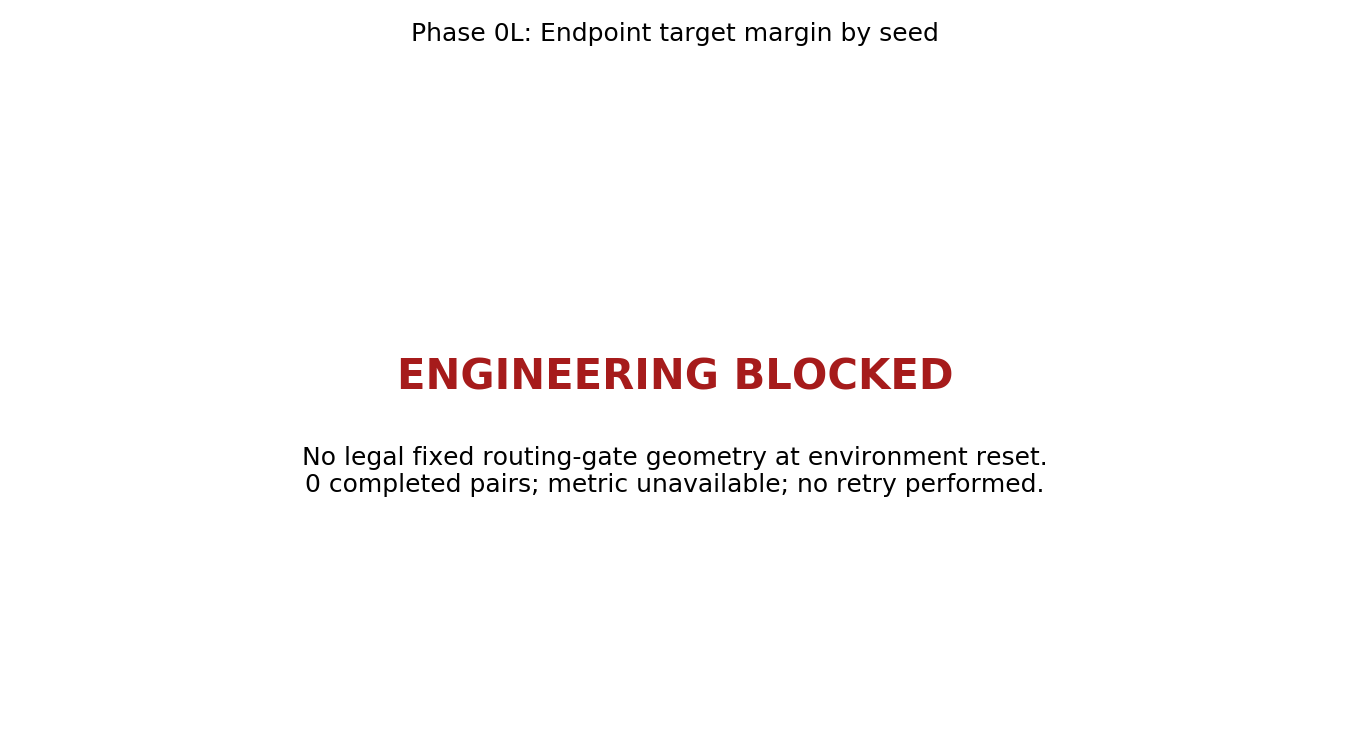
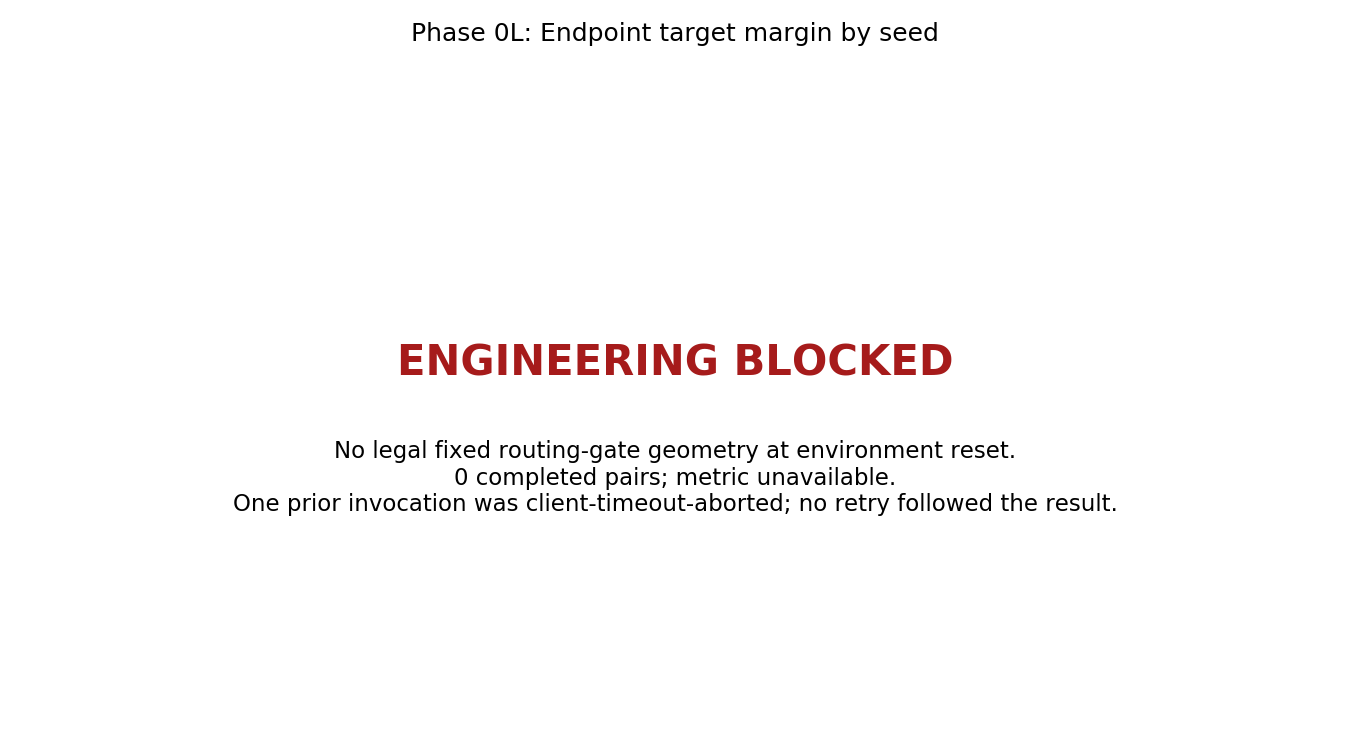
Clarify Phase 0L execution provenance

Changed region(s): [[0.1867, 0.5827, 0.84, 0.7053], [0.28, 0.46, 0.7156, 0.5213]]

diff --git a/reports/experiment2/phase0_hidden_routing_gate/phase0l/summary.md b/reports/experiment2/phase0_hidden_routing_gate/phase0l/summary.md
@@ -9,11 +9,14 @@
 - Failure: `no legal fixed hidden routing-gate orientation and endpoint`
 - Completed pairs: `0`
 - Raw files: `0`
-- Retry performed: `False`
+- Client-timeout-aborted invocation before completed run: `True`
+- Retry after completed engineering result: `False`
 - Geometry/action/outcome search performed: `False`
 - Training performed: `False`
 
 The fixed geometry failed during environment reset for the first requested seed,
 before any free/hidden pair completed. No physical-mechanism, routing-outcome,
 sensor, vision, or Oracle metric is available. The geometry was not changed and
-the simulation was not retried.
+the simulation was not retried after the completed engineering result. An
+earlier invocation was terminated by the client timeout before it produced a
+pair, raw file, or result; this transport event is recorded explicitly.

diff --git a/docs/CCDA_RESEARCH_ROADMAP.md b/docs/CCDA_RESEARCH_ROADMAP.md
@@ -1316,4 +1316,6 @@ Agent 当前只应执行以下主线：
 - Verdict: `HIDDEN_ROUTING_GATE_SMOKE_BLOCKED`.
 - The fixed layout had no legal workspace geometry at the first
   environment reset, so no pair metrics or physical conclusion were produced.
-- Training remained disabled; no retry or geometry change was performed.
+- Training remained disabled; no retry followed the completed engineering
+  result and no geometry change was performed. One earlier invocation was
+  client-timeout-aborted before producing any pair, raw file, or result.
